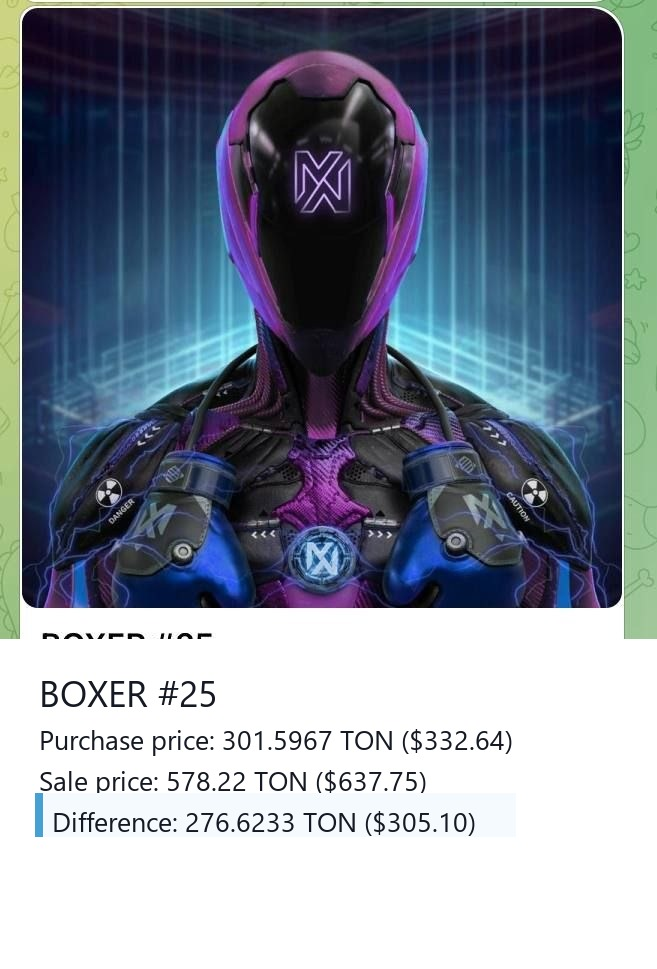
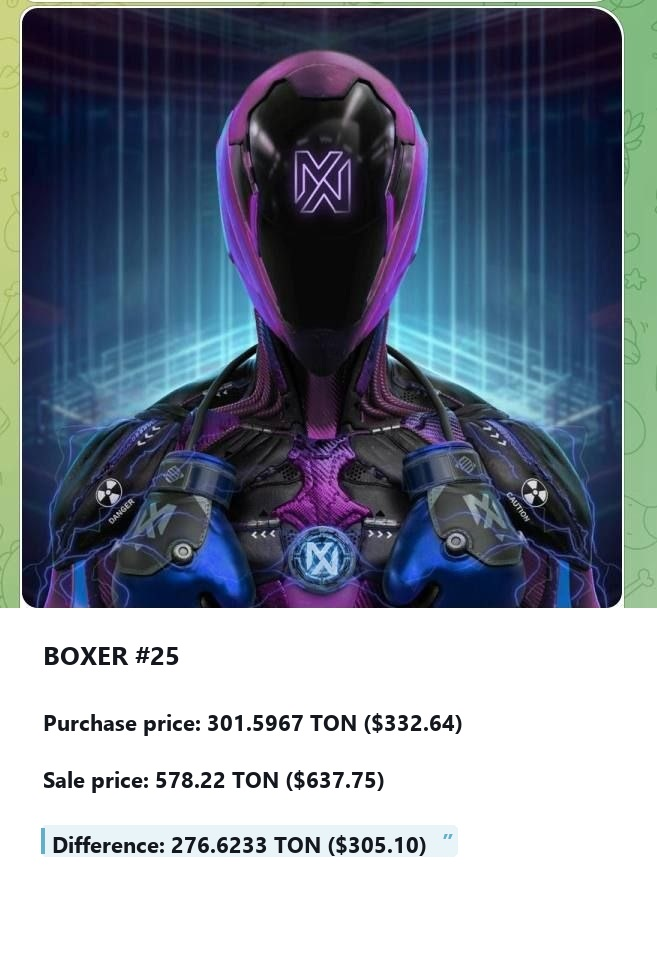
Improve EN profit screenshots to match RU original layout.
Keep NFT art from source images; redraw only the text panel with Telegram-style quote and USD amounts.

Changed region(s): [[0.0304, 0.6502, 0.7915, 0.8978], [0.9437, 0.6192, 1.0, 0.6811], [0.0, 0.6192, 0.0304, 0.6811]]

diff --git a/backend/scripts/make_en_profit_images.py b/backend/scripts/make_en_profit_images.py
@@ -1,152 +1,213 @@
 #!/usr/bin/env python3
-"""Rebuild English profit screenshots from RU assets (labels + USD)."""
+"""English profit screenshots: original NFT art + Telegram-like panel (matches RU layout)."""
 from __future__ import annotations
 
 import os
 from PIL import Image, ImageDraw, ImageFont
 
-SRC = os.path.join(os.path.dirname(__file__), "..", "images_folder_probe")
-OUT = os.path.join(os.path.dirname(__file__), "..", "images_folder_en")
+HERE = os.path.dirname(os.path.abspath(__file__))
+SRC = os.path.join(HERE, "..", "images_folder_probe")
+SRC_FALLBACK = os.path.join(HERE, "..", "images_folder")
+OUT = os.path.join(HERE, "..", "images_folder_en")
 
-# title, buy_ton, buy_usd, sell_ton, sell_usd, diff_ton, diff_usd,
-# panel_y_frac, bg, text, accent, title_color
 SPECS = [
-    (
-        "profits1.png",
-        "T1000 #32",
-        "450.9021",
-        "689.14",
-        "716.09",
-        "1,094.45",
-        "265.1879",
-        "405.30",
-        0.70,
-        (24, 37, 51),
-        (255, 255, 255),
-        (120, 200, 230),
-        (255, 255, 255),
-    ),
-    (
-        "profits2.jpg",
-        "BOXER #25",
-        "301.5967",
-        "332.64",
-        "578.22",
-        "637.75",
-        "276.6233",
-        "305.10",
-        0.66,
-        (255, 255, 255),
-        (20, 25, 35),
-        (70, 160, 210),
-        (20, 25, 35),
-    ),
-    (
-        "profits3.png",
-        "Meebit #18494",
-        "232.6196",
-        "355.53",
-        "460.91",
-        "704.44",
-        "228.2904",
-        "348.91",
-        0.70,
-        (24, 37, 51),
-        (255, 255, 255),
-        (120, 200, 230),
-        (255, 255, 255),
-    ),
-    (
-        "profits4.png",
-        "alien fren #9671",
-        "872.98",
-        "1,334.23",
-        "1,043.24",
-        "1,594.45",
-        "170.26",
-        "260.22",
-        0.70,
-        (24, 37, 51),
-        (255, 255, 255),
-        (120, 200, 230),
-        (255, 255, 255),
-    ),
+    {
+        "file": "profits1.png",
+        "panel_y": 432,
+        "extend": 24,
+        "title": "T1000 #32",
+        "buy": ("450.9021", "689.14"),
+        "sell": ("716.09", "1,094.45"),
+        "diff": ("265.1879", "405.30"),
+        "theme": "dark",
+        "pad_x": 19,
+        "title_dy": 8,
+        "gap_title": 18,
+        "gap_lines": 8,
+        "gap_before_diff": 10,
+        "fs_title": 15,
+        "fs_body": 13,
+    },
+    {
+        "file": "profits2.jpg",
+        "panel_y": 608,
+        "extend": 0,
+        "title": "BOXER #25",
+        "buy": ("301.5967", "332.64"),
+        "sell": ("578.22", "637.75"),
+        "diff": ("276.6233", "305.10"),
+        "theme": "light",
+        "pad_x": 43,
+        "title_dy": 28,
+        "gap_title": 42,
+        "gap_lines": 28,
+        "gap_before_diff": 32,
+        "fs_title": 26,
+        "fs_body": 22,
+    },
+    {
+        "file": "profits3.png",
+        "panel_y": 432,
+        "extend": 24,
+        "title": "Meebit #18494",
+        "buy": ("232.6196", "355.53"),
+        "sell": ("460.91", "704.44"),
+        "diff": ("228.2904", "348.91"),
+        "theme": "dark",
+        "pad_x": 15,
+        "title_dy": 8,
+        "gap_title": 18,
+        "gap_lines": 8,
+        "gap_before_diff": 10,
+        "fs_title": 14,
+        "fs_body": 13,
+    },
+    {
+        "file": "profits4.png",
+        "panel_y": 432,
+        "extend": 24,
+        "title": "alien fren #9671",
+        "buy": ("872.98", "1,334.23"),
+        "sell": ("1043.24", "1,594.45"),
+        "diff": ("170.26", "260.22"),
+        "theme": "dark",
+        "pad_x": 14,
+        "title_dy": 8,
+        "gap_title": 18,
+        "gap_lines": 8,
+        "gap_before_diff": 10,
+        "fs_title": 14,
+        "fs_body": 13,
+    },
 ]
 
 
-def main() -> None:
-    os.makedirs(OUT, exist_ok=True)
-    font_candidates = [
-        r"C:\Windows\Fonts\segoeui.ttf",
-        r"C:\Windows\Fonts\arial.ttf",
-        "/usr/share/fonts/truetype/dejavu/DejaVuSans.ttf",
-    ]
-    font_path = next(p for p in font_candidates if os.path.exists(p))
+def find_font(bold: bool) -> str:
+    names = (
+        ["segoeuib.ttf", "arialbd.ttf", "calibrib.ttf", "DejaVuSans-Bold.ttf"]
+        if bold
+        else ["segoeui.ttf", "arial.ttf", "calibri.ttf", "DejaVuSans.ttf"]
+    )
+    for root in (
+        r"C:\Windows\Fonts",
+        "/usr/share/fonts/truetype/dejavu",
+        "/usr/share/fonts/truetype/liberation",
+    ):
+        for name in names:
+            path = os.path.join(root, name)
+            if os.path.exists(path):
+                return path
+    raise FileNotFoundError("No usable font")
 
-    for (
-        fname,
-        title,
-        bt,
-        bu,
-        st,
-        su,
-        dt,
-        du,
-        yfrac,
-        bg,
-        tc,
-        ac,
-        title_c,
-    ) in SPECS:
-        im = Image.open(os.path.join(SRC, fname)).convert("RGBA")
-        w, h = im.size
-        y0 = int(h * yfrac)
+
+def sample_panel_bg(im: Image.Image, panel_y: int) -> tuple[int, int, int]:
+    w, h = im.size
+    samples = []
+    for y in range(panel_y + 2, min(panel_y + 36, h - 2)):
+        for x in (w // 2, w // 3, 2 * w // 3):
+            samples.append(im.getpixel((x, y))[:3])
+    samples.sort(key=lambda c: sum(c))
+    return samples[len(samples) // 2]
+
+
+def src_path(fname: str) -> str:
+    p = os.path.join(SRC, fname)
+    if os.path.exists(p):
+        return p
+    return os.path.join(SRC_FALLBACK, fname)
+
+
+def render(spec: dict) -> str:
+    base = Image.open(src_path(spec["file"])).convert("RGBA")
+    w, h = base.size
+    panel_y = spec["panel_y"]
+    extend = int(spec["extend"])
+    theme = spec["theme"]
+    bg = sample_panel_bg(base, panel_y)
+
+    if extend:
+        im = Image.new("RGBA", (w, h + extend), bg + (255,))
+        im.paste(base, (0, 0))
+    else:
+        im = base.copy()
+
+    draw = ImageDraw.Draw(im)
+    draw.rectangle((0, panel_y, w, im.size[1]), fill=bg + (255,))
+
+    font_title = ImageFont.truetype(find_font(True), spec["fs_title"])
+    font_body = ImageFont.truetype(find_font(True), spec["fs_body"])
+    font_quote = ImageFont.truetype(find_font(True), max(spec["fs_body"] + 2, 15))
+
+    if theme == "dark":
+        text_color = (255, 255, 255)
+        accent = (144, 214, 230)
+        quote_fill = (30, 45, 62)
+    else:
+        text_color = (20, 24, 30)
+        accent = (100, 175, 200)
+        quote_fill = (232, 244, 248)
+
+    pad = spec["pad_x"]
+    buy_t, buy_u = spec["buy"]
+    sell_t, sell_u = spec["sell"]
+    diff_t, diff_u = spec["diff"]
+
+    y = panel_y + spec["title_dy"]
+    draw.text((pad, y), spec["title"], fill=text_color + (255,), font=font_title)
+    y = draw.textbbox((pad, y), spec["title"], font=font_title)[3] + spec["gap_title"]
+
+    line1 = f"Purchase price: {buy_t} TON (${buy_u})"
+    draw.text((pad, y), line1, fill=text_color + (255,), font=font_body)
+    y = draw.textbbox((pad, y), line1, font=font_body)[3] + spec["gap_lines"]
+
+    line2 = f"Sale price: {sell_t} TON (${sell_u})"
+    draw.text((pad, y), line2, fill=text_color + (255,), font=font_body)
+    y = draw.textbbox((pad, y), line2, font=font_body)[3] + spec["gap_before_diff"]
+
+    diff = f"Difference: {diff_t} TON (${diff_u})"
+    bb = draw.textbbox((0, 0), diff, font=font_body)
+    tw, th = bb[2] - bb[0], bb[3] - bb[1]
+    pad_x, pad_y = 10, 5
+    bar_w = 3
+    box_x = pad - 2
+    box_w = min(w - box_x - 8, tw + pad_x * 2 + bar_w + 18)
+    box_h = th + pad_y * 2
+
+    # ensure quote fits
+    if y + box_h > im.size[1] - 4:
+        extra = y + box_h + 6 - im.size[1]
+        bigger = Image.new("RGBA", (w, im.size[1] + extra), bg + (255,))
+        bigger.paste(im, (0, 0))
+        im = bigger
         draw = ImageDraw.Draw(im)
-        draw.rectangle([0, y0, w, h], fill=bg + (255,))
 
-        fs_title = max(18, int(w * 0.055))
-        fs_body = max(14, int(w * 0.042))
-        font_title = ImageFont.truetype(font_path, fs_title)
-        font_body = ImageFont.truetype(font_path, fs_body)
+    draw.rounded_rectangle(
+        (box_x, y, box_x + box_w, y + box_h),
+        radius=5,
+        fill=quote_fill + (255,),
+    )
+    draw.rectangle((box_x, y + 3, box_x + bar_w, y + box_h - 3), fill=accent + (255,))
+    draw.text(
+        (box_x + bar_w + pad_x - 2, y + pad_y - 1),
+        diff,
+        fill=text_color + (255,),
+        font=font_body,
+    )
+    draw.text((box_x + box_w - 15, y), "”", fill=accent + (255,), font=font_quote)
 
-        pad_x = int(w * 0.06)
-        line_h = int(fs_body * 1.55)
-        y = y0 + int(h * 0.03)
+    os.makedirs(OUT, exist_ok=True)
+    out_name = "profits2.jpg" if spec["file"].endswith(".jpg") else spec["file"]
+    out_path = os.path.join(OUT, out_name)
+    if out_name.endswith(".jpg"):
+        im.convert("RGB").save(out_path, quality=94, optimize=True)
+    else:
+        im.save(out_path, optimize=True)
+    return out_path
 
-        draw.text((pad_x, y), title, fill=title_c + (255,), font=font_title)
-        y += int(fs_title * 1.45)
 
-        for line in (
-            f"Purchase price: {bt} TON (${bu})",
-            f"Sale price: {st} TON (${su})",
-        ):
-            draw.text((pad_x, y), line, fill=tc + (255,), font=font_body)
-            y += line_h
-
-        diff = f"Difference: {dt} TON (${du})"
-        bar_w = max(3, int(w * 0.012))
-        block_pad = int(fs_body * 0.35)
-        bbox = draw.textbbox((0, 0), diff, font=font_body)
-        tw = bbox[2] - bbox[0]
-        th = bbox[3] - bbox[1]
-        strip = (245, 250, 255, 255) if bg[0] > 200 else (30, 48, 68, 255)
-        draw.rectangle(
-            [pad_x - 4, y - block_pad, pad_x + tw + int(w * 0.08), y + th + block_pad],
-            fill=strip,
-        )
-        draw.rectangle(
-            [pad_x - 4, y - block_pad, pad_x - 4 + bar_w, y + th + block_pad],
-            fill=ac + (255,),
-        )
-        draw.text((pad_x + bar_w + 6, y), diff, fill=tc + (255,), font=font_body)
-
-        if fname.endswith(".jpg"):
-            out_path = os.path.join(OUT, "profits2.jpg")
-            im.convert("RGB").save(out_path, quality=92)
-        else:
-            out_path = os.path.join(OUT, fname)
-            im.save(out_path)
-        print("wrote", out_path)
+def main() -> None:
+    for spec in SPECS:
+        print("wrote", render(spec))
 
 
 if __name__ == "__main__":
